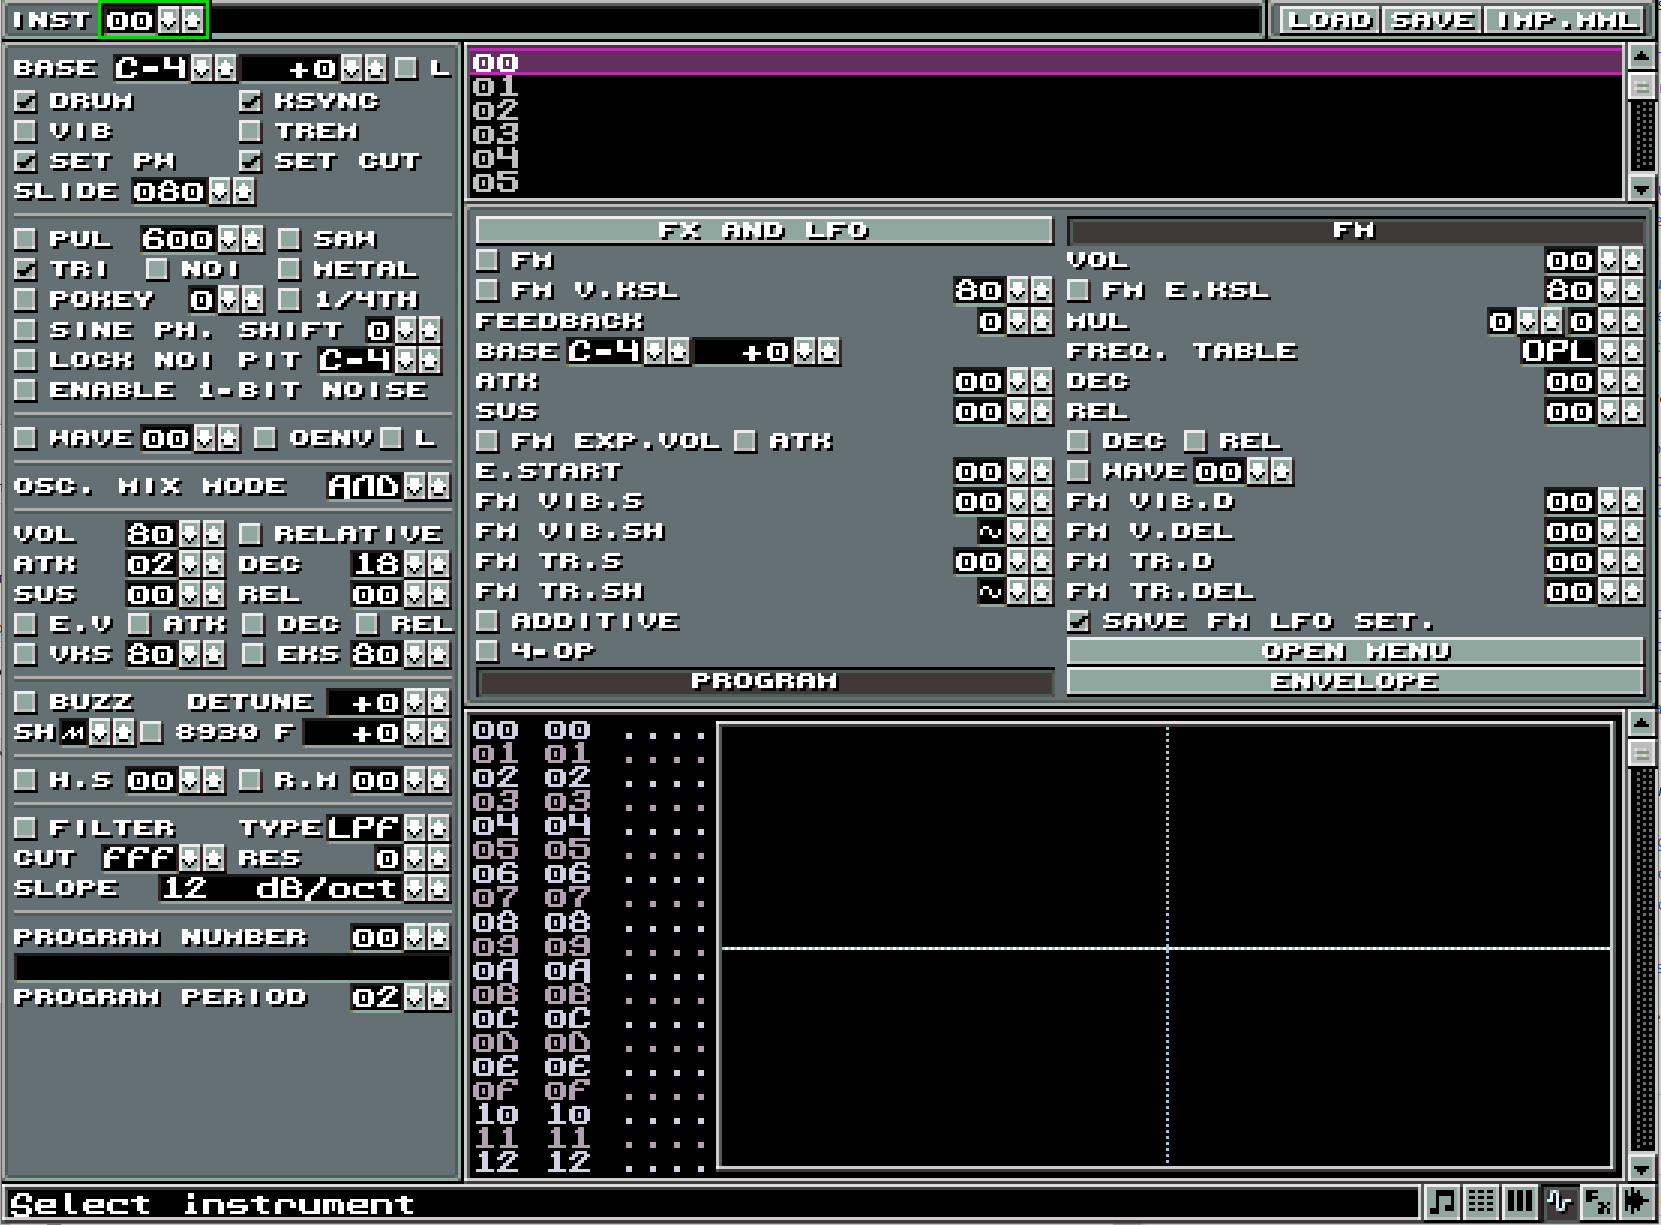
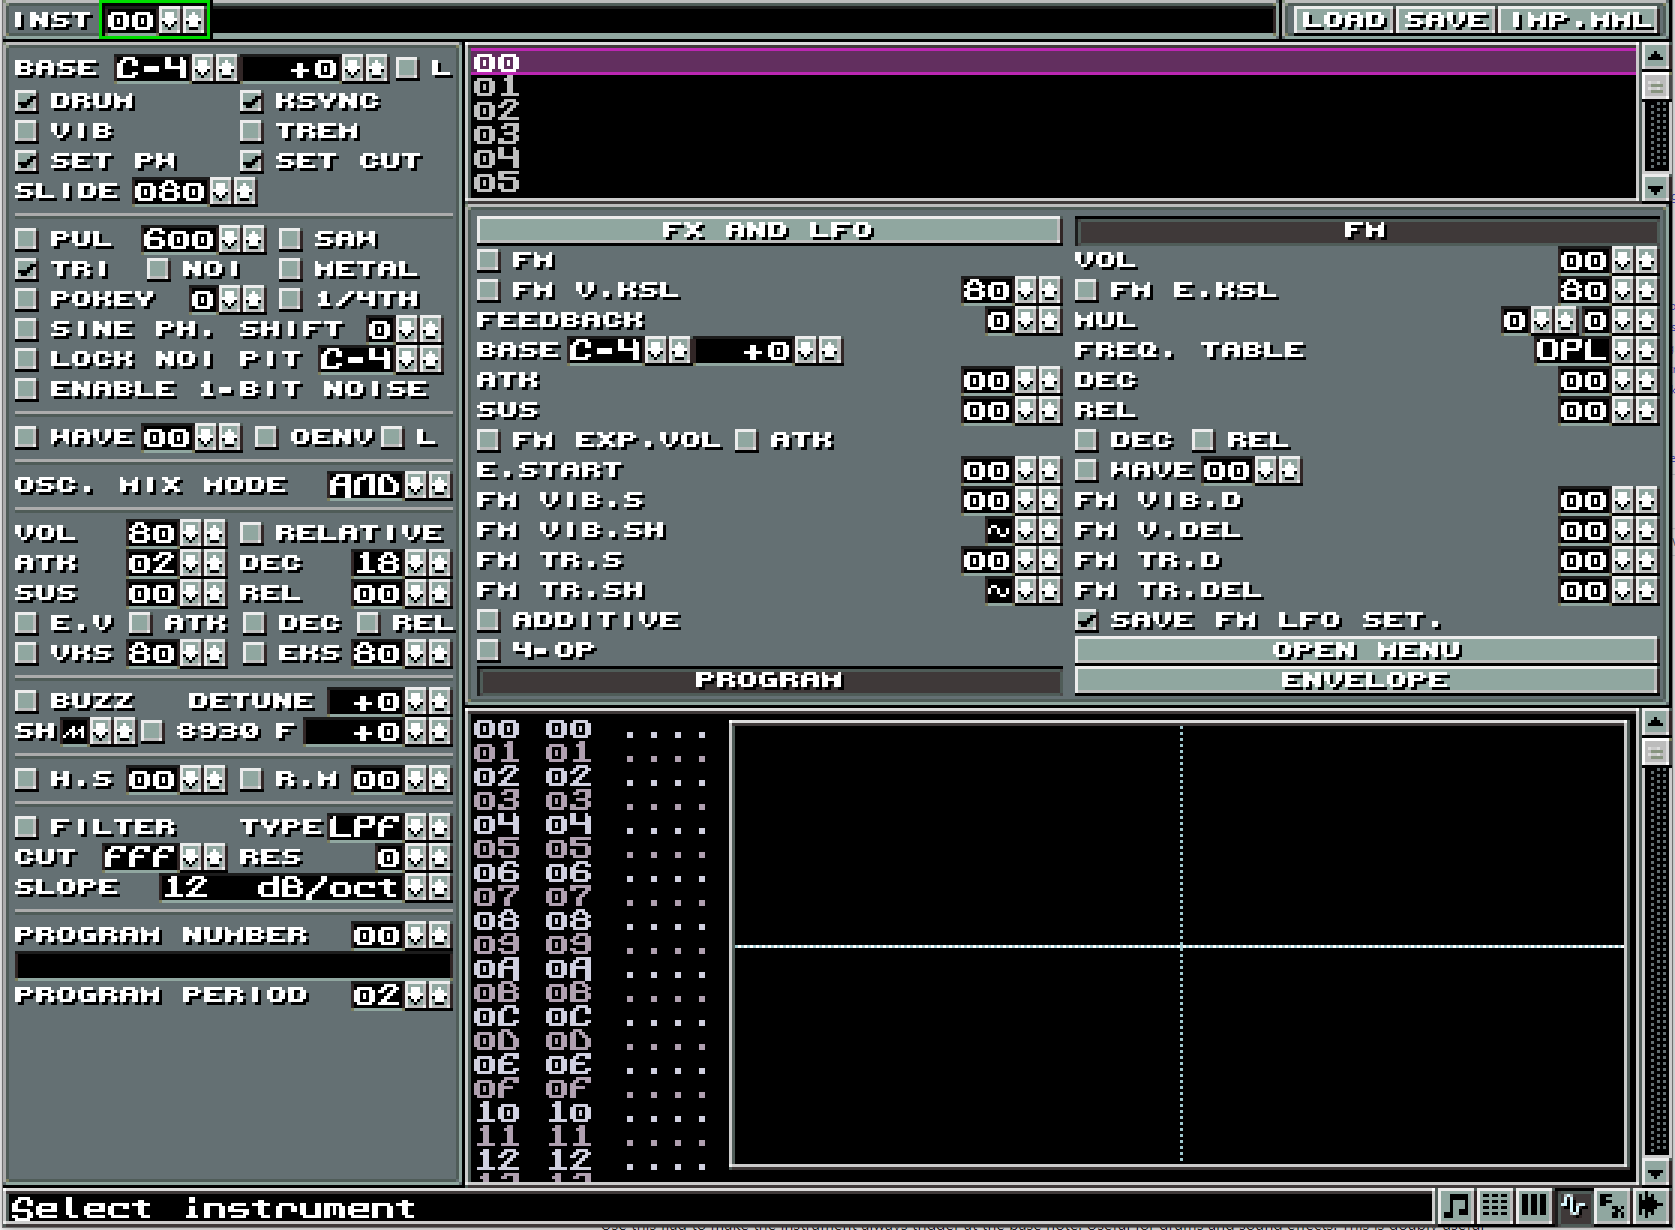
add new images, fix env editor window height

Changed region(s): [[0.0, 0.0, 1.0, 1.0]]

diff --git a/src/view/envelopeview.c b/src/view/envelopeview.c
@@ -150,6 +150,7 @@ void fourop_point_envelope_view(GfxDomain *dest_surface, const SDL_Rect *dest, c
 	
 	SDL_Rect area;
 	copy_rect(&area, dest);
+	
 	console_set_clip(mused.console, &area);
 	console_clear(mused.console);
 	//bevelex(domain, &area, mused.slider_bevel, BEV_THIN_FRAME, BEV_F_STRETCH_ALL);
@@ -589,6 +590,13 @@ void point_envelope_view(GfxDomain *dest_surface, const SDL_Rect *dest, const SD
 	
 	SDL_Rect area;
 	copy_rect(&area, dest);
+	
+	if(!(mused.show_fm_settings))
+	{
+		area.y -= 60;
+		area.h += 60;
+	}
+	
 	console_set_clip(mused.console, &area);
 	console_clear(mused.console);
 	//bevelex(domain, &area, mused.slider_bevel, BEV_THIN_FRAME, BEV_F_STRETCH_ALL);
